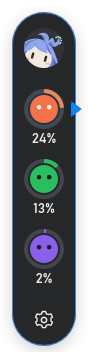
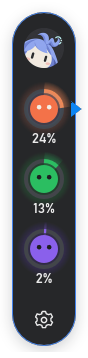
feat: add subtle service-colored quota ring glow

diff --git a/docs/WINDOWS_QA.md b/docs/WINDOWS_QA.md
@@ -2,7 +2,14 @@
 
 日期：2026-10-10 · 工程版本：v0.2.0 · 目标：Windows x64。
 
-## 当前轮：百分比间距与字体
+## 当前轮：圆环同色外发光
+
+- [x] 橙／绿／紫圆环增加同服务色光晕，进度弧与选中状态略亮；七层渐窄透明路径位于清晰的灰色轨道和彩色进度弧下方。
+- [x] 光晕随紧凑／标准／宽松档位缩放；三档与选中原生快照中，数字保持清晰，窗口和布局尺寸保持原样。
+- [x] 9 项 Rust 测试、17 张原生外观快照及隔离控件输入检查通过，真实用户配置未改变。
+- [x] Release 构建及隔离配置启动检查通过。
+
+## 前轮：百分比间距与字体
 
 - [x] 百分比数字在紧凑／标准／宽松档上移 4／7／7px，靠近所属圆环；服务项与胶囊尺寸保持原样。
 - [x] 数字使用 Windows 系统字体 Bahnschrift，字重 500，字号保持 12／14／16px；三档原生快照中无裁切或重叠。

diff --git a/docs/UI_SPEC.md b/docs/UI_SPEC.md
@@ -27,6 +27,8 @@
 
 胶囊百分比采用 Windows 系统字体 Bahnschrift，字重 500；紧凑／标准／宽松字号保持 12／14／16px。数字行相对服务项顶部位于 33／45／57px，比上一版上移 4／7／7px，让百分比紧跟圆环，服务项高度保持原样。
 
+圆环增加同服务色的柔和外发光：全环使用淡光晕，进度弧更亮，选中时略增强。用七层逐渐收窄的半透明原生路径绘制，灰色轨道与彩色进度弧位于光晕上方，保留清晰边缘；光晕随尺寸档位和按下状态缩放。
+
 ## 尺寸和配色
 
 以下均为逻辑像素。胶囊在主体外留出 12px，详情和设置留出 12px，容纳透明阴影；这部分不计入设计主体尺寸。详情与设置分别使用 1.0 倍 Token；共用图标和按钮由所属面板传入缩放，胶囊的设置触点按胶囊尺寸独立缩放。
